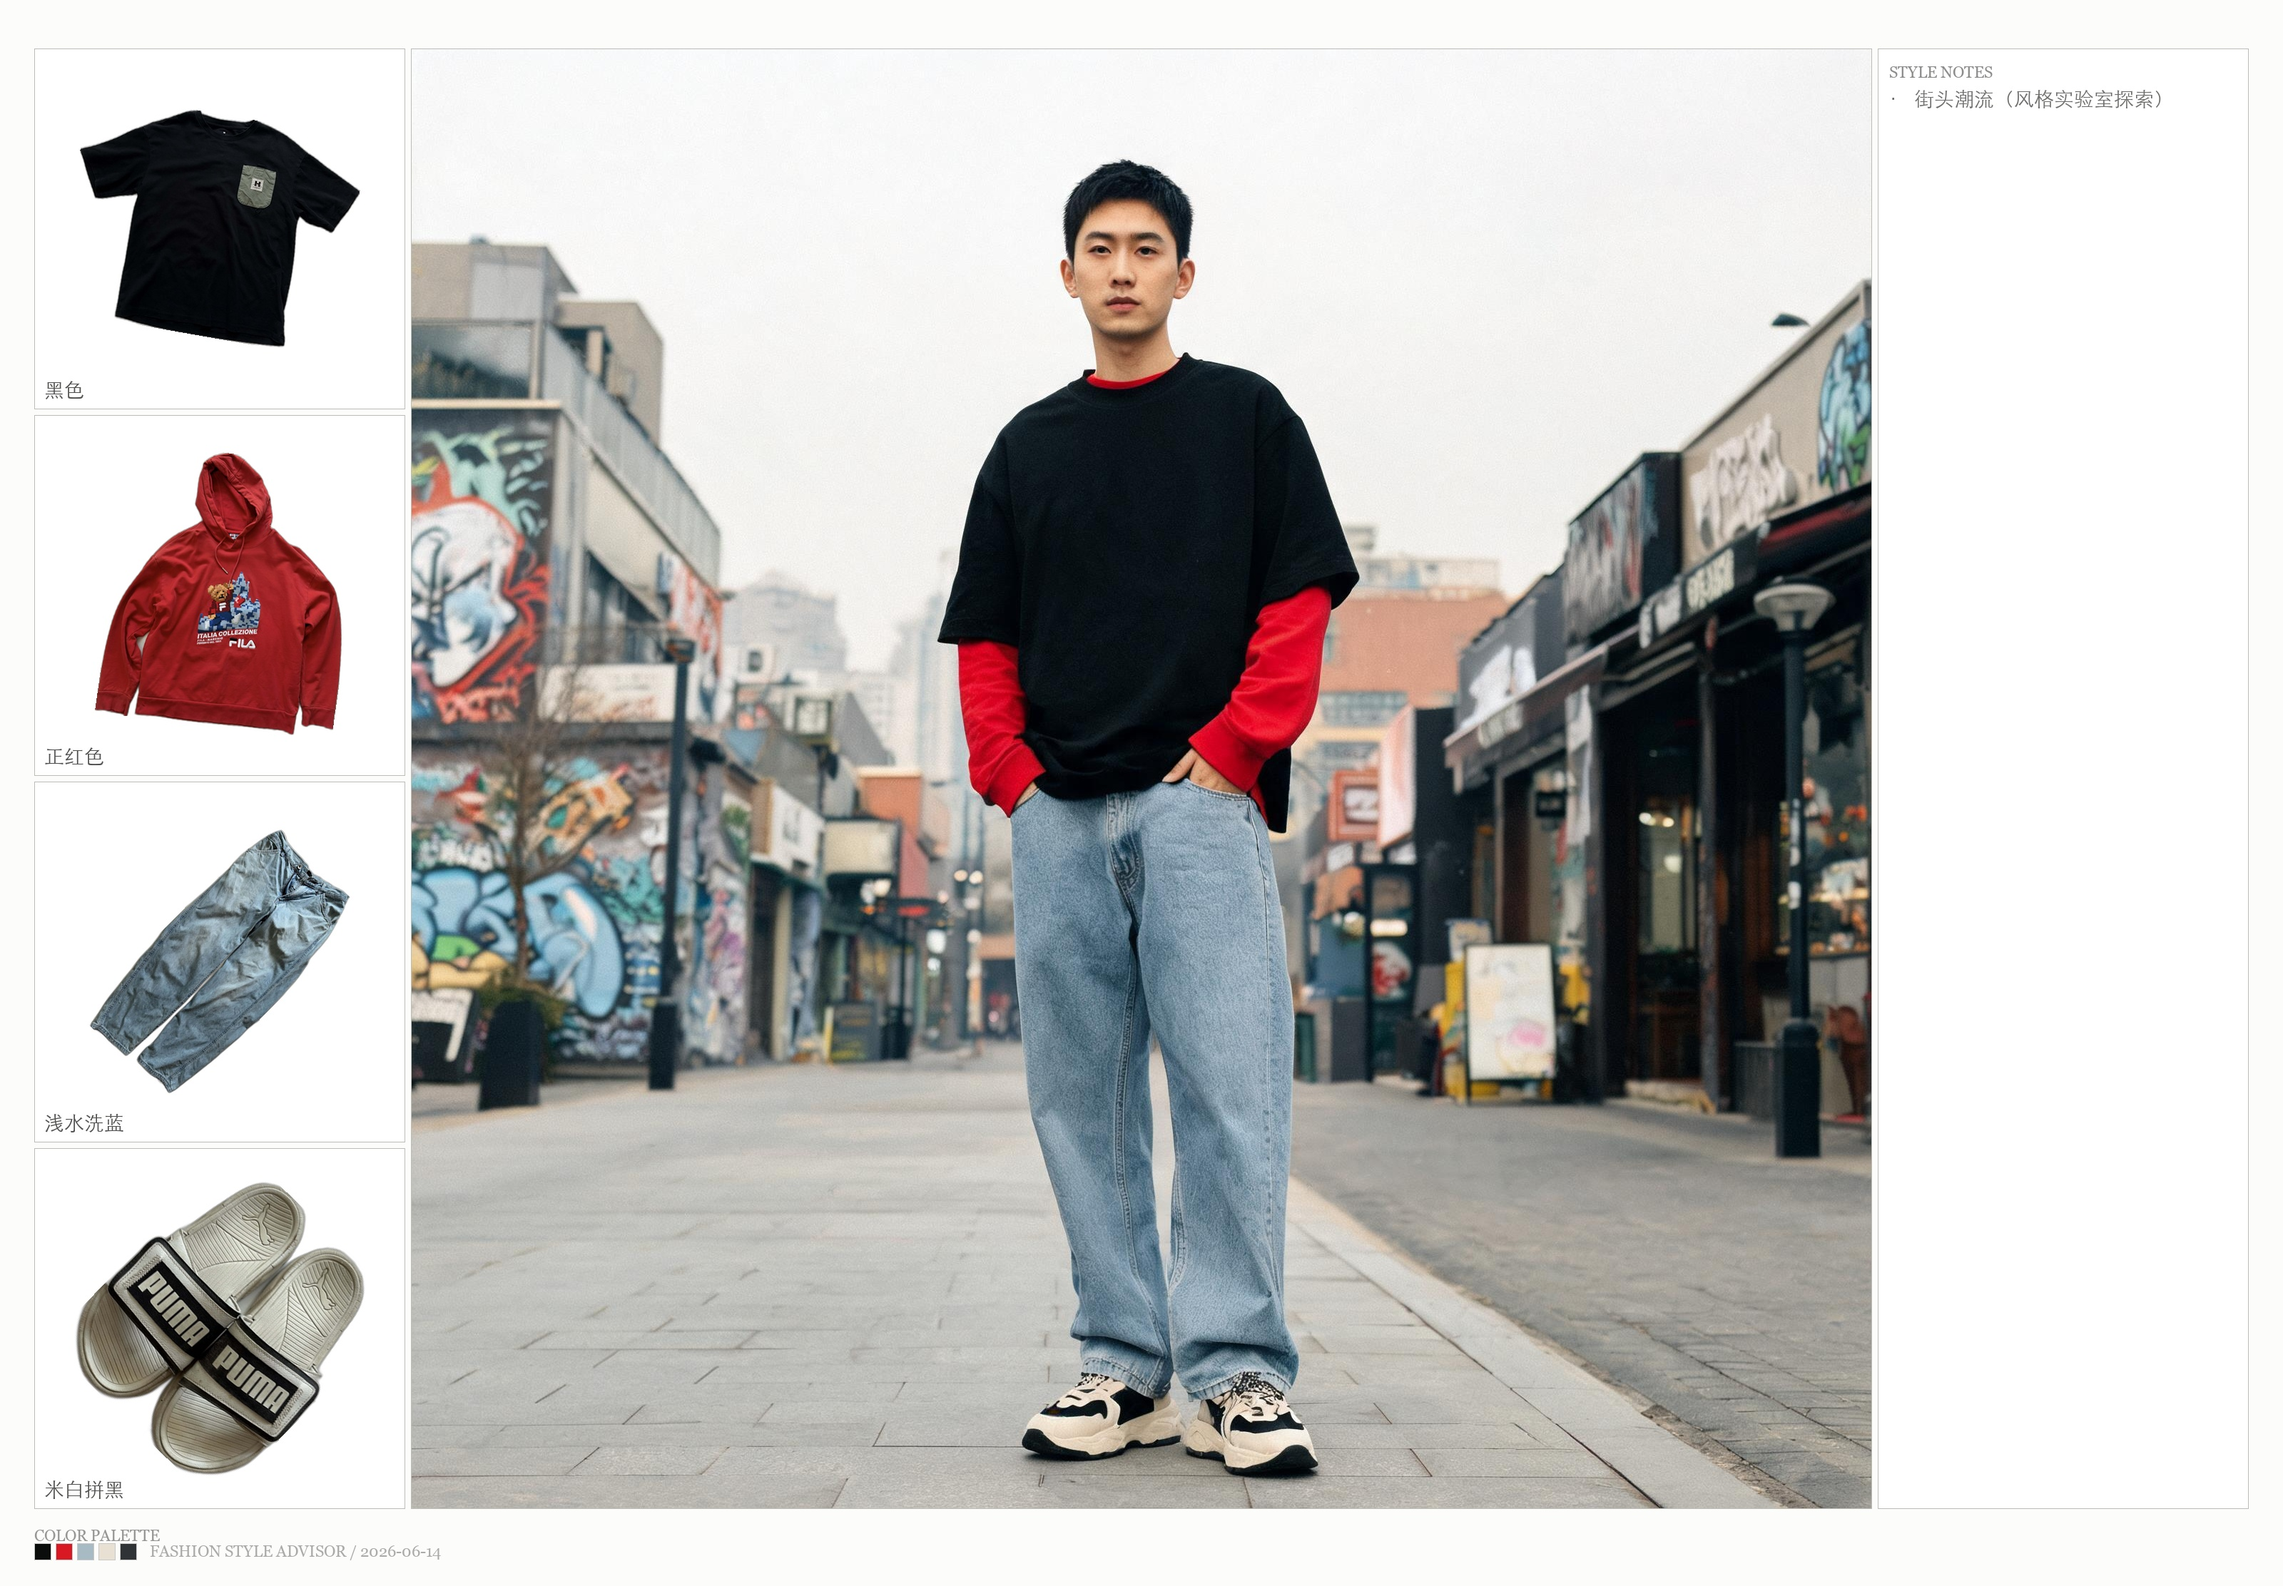
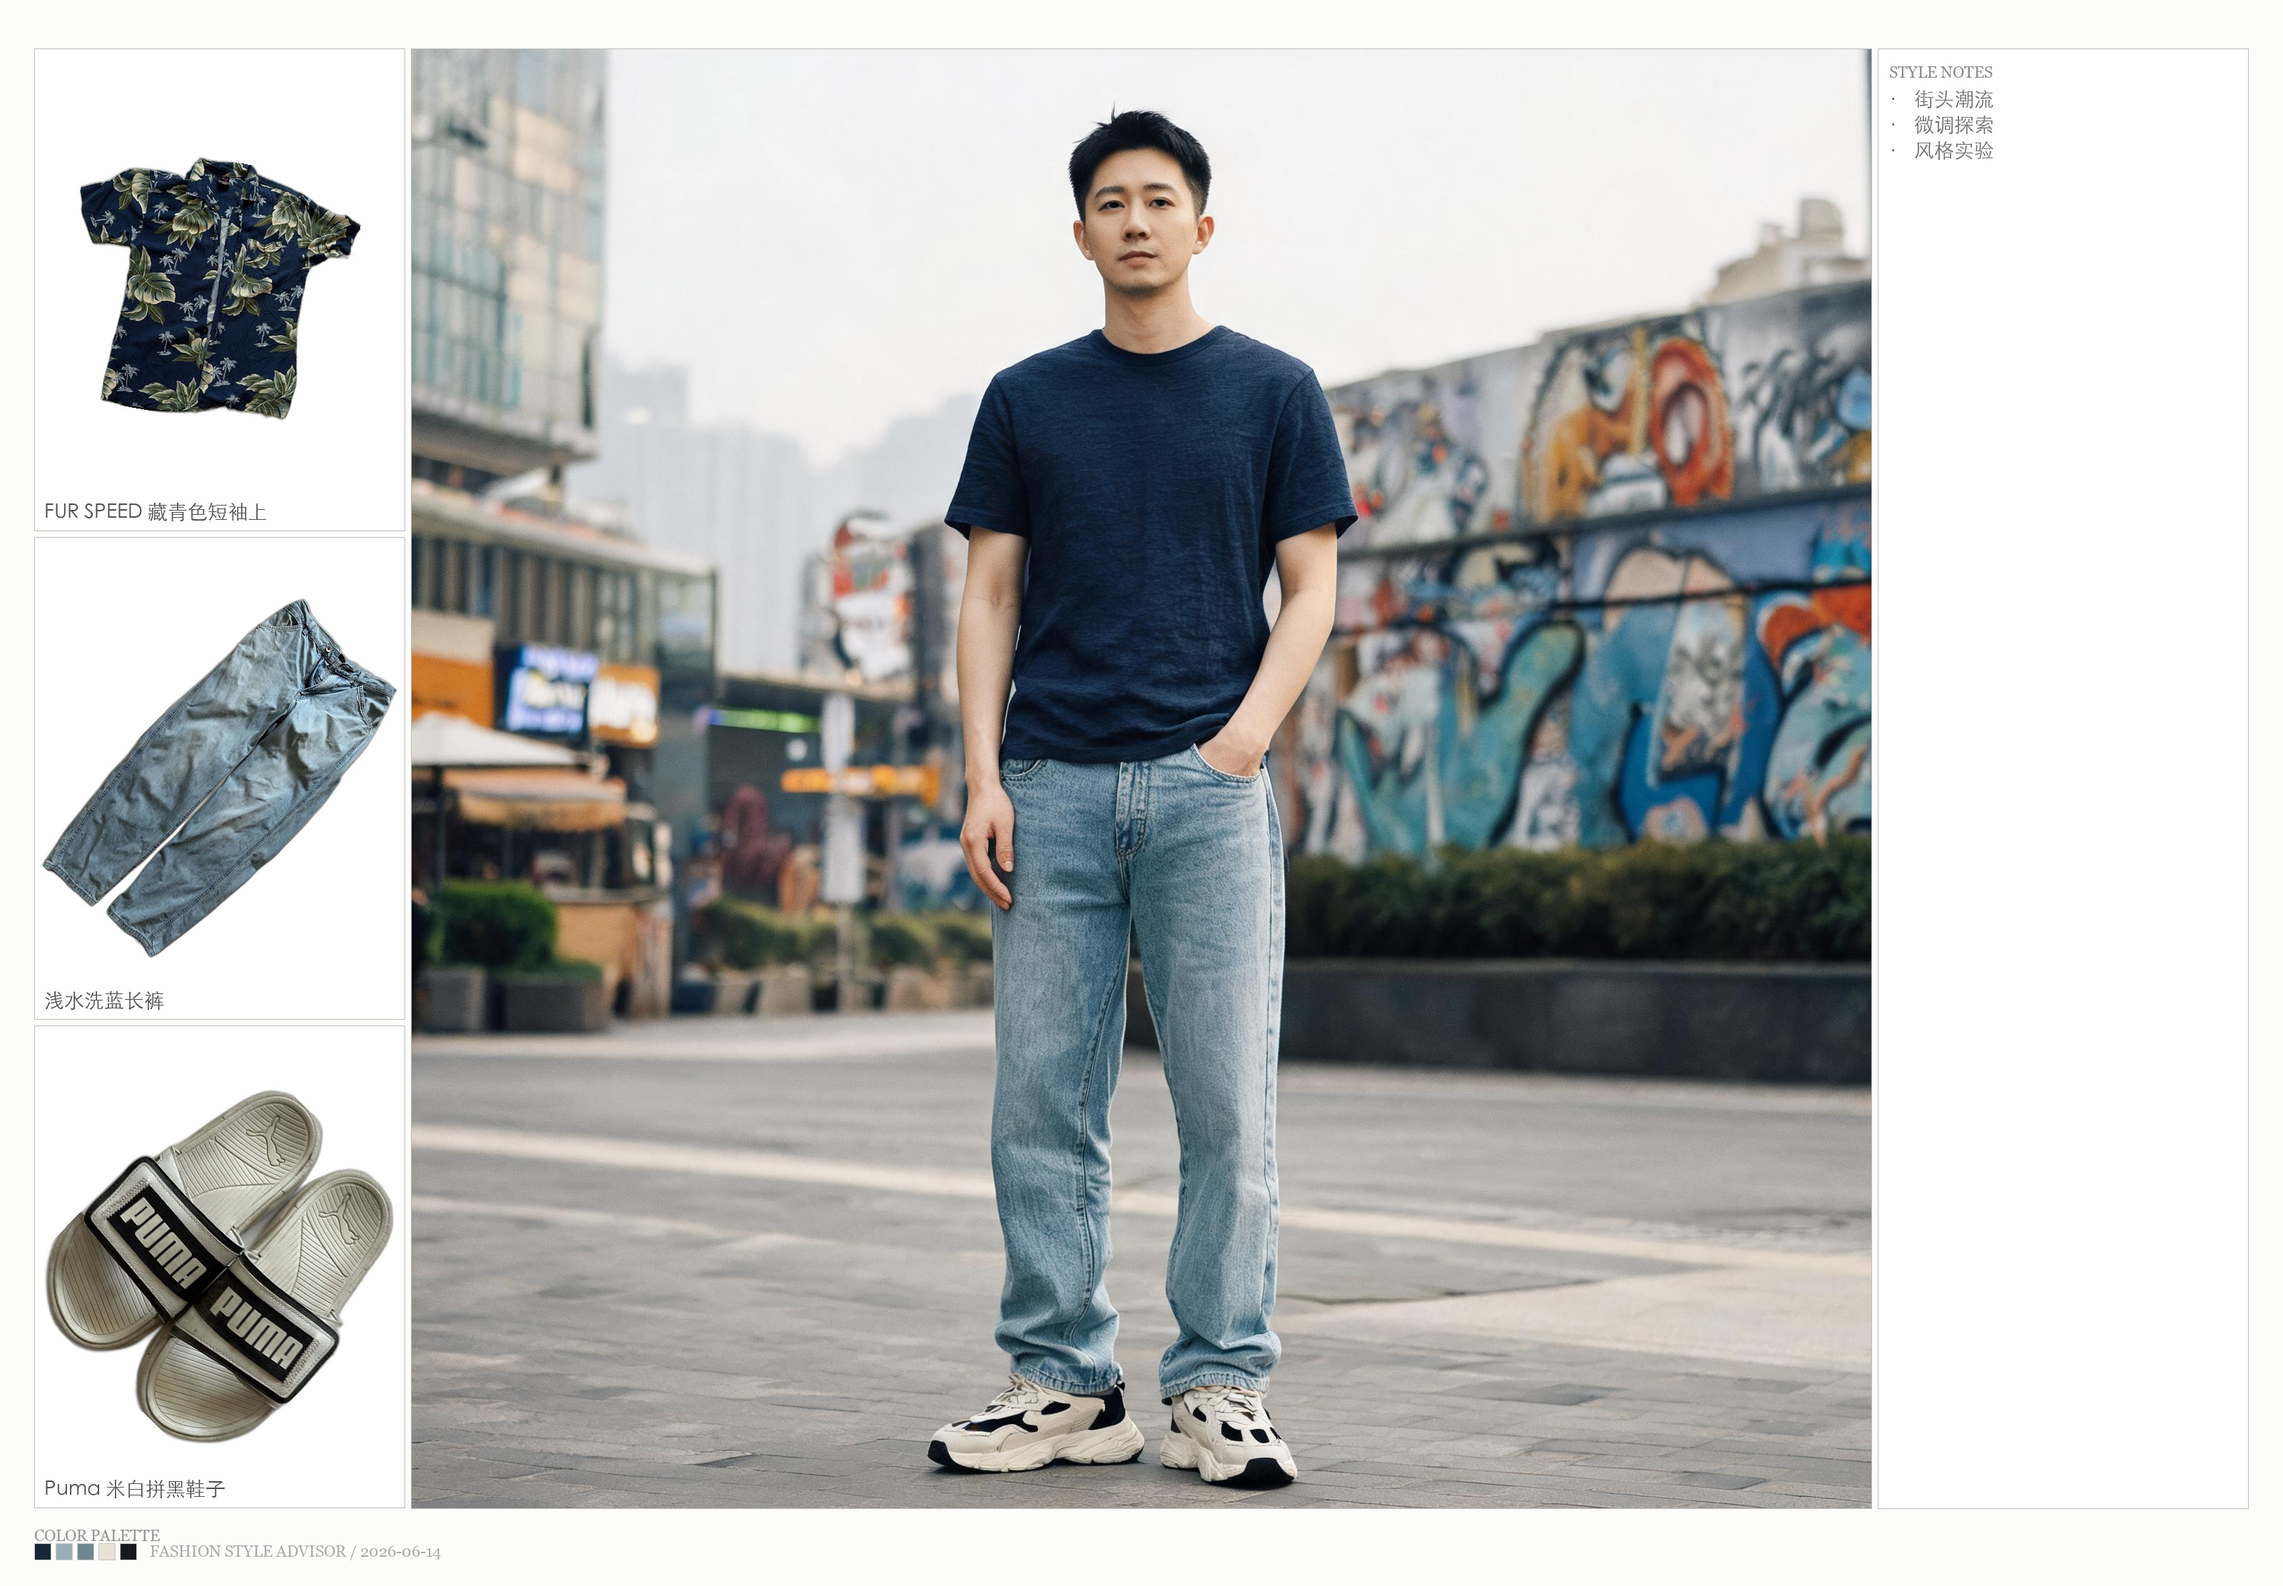
🧪 B线探索: 街头潮流 (2026-06-14)

diff --git a/tools/composite_v2.py b/tools/composite_v2.py
@@ -112,14 +112,44 @@ def parse_style_info(outfit_dir):
     if not os.path.exists(md): return []
     with open(md,encoding='utf-8') as f: text=f.read()
     keywords=[]
+
+    # 策略1：优先匹配 "## 风格关键词" 小节内容
+    in_kw_section = False
     for line in text.split('\n'):
-        if '风格关键词' in line or '风格' in line:
-            # 提取冒号后的内容
-            m=re.search(r'[：:]\s*(.+)',line)
+        if '风格关键词' in line:
+            in_kw_section = True
+            # 同行冒号后的内容
+            m = re.search(r'[：:]\s*(.+)', line)
             if m:
-                for kw in re.split(r'[、,，/]',m.group(1)):
-                    kw=kw.strip().replace('**','')
-                    if kw and len(kw)<15: keywords.append(kw)
+                for kw in re.split(r'[、,，/]', m.group(1)):
+                    kw = kw.strip().replace('**', '')
+                    if kw and len(kw) < 20:
+                        keywords.append(kw)
+            continue
+        if in_kw_section:
+            if line.strip().startswith('##') or line.strip().startswith('---'):
+                break
+            s = line.strip().lstrip('- ').strip()
+            if s:
+                for kw in re.split(r'[、,，/]', s):
+                    kw = kw.strip().replace('**', '')
+                    if kw and len(kw) < 20:
+                        keywords.append(kw)
+
+    # 策略2：回退——从 "风格" 元数据行提取（去括号）
+    if not keywords:
+        for line in text.split('\n'):
+            if '风格' in line and '风格关键词' not in line and '风格故事' not in line:
+                m = re.search(r'[：:]\s*(.+)', line)
+                if m:
+                    val = m.group(1)
+                    val = re.sub(r'[（(][^）)]*[）)]', '', val).strip()
+                    for kw in re.split(r'[、,，/]', val):
+                        kw = kw.strip().replace('**', '')
+                        if kw and len(kw) < 20:
+                            keywords.append(kw)
+                    break
+
     return keywords[:5]
 
 def composite(ai_path,items,output_path):

diff --git a/tools/style_lab.py b/tools/style_lab.py
@@ -1359,11 +1359,23 @@ def prepare_bline_outfit(anchor_item, companions, direction, weather_temp=30, we
         cid = item['clothing_id']
         cat = item.get('category', '')
         color = item.get('color', {}).get('hue_name', '')
+        brand = item.get('brand', {}).get('name', '')
+        if brand and brand != '未知':
+            item_name = f'{brand} {color}{cat}'
+        else:
+            item_name = f'{color}{cat}'
         # ⚠ ⭐ 不能放在 ID 列，否则 composite_v2 的 parse() 会把 ⭐ 读入 ID → 找不到文件
         marker = ' ⭐锚点' if cid == anchor_id else ''
         items_table_lines.append(
-            f"| {cat} | **{cid}** | {color} | {appeal['visual_signature'][:30]}{marker} |"
+            f"| {cat} | **{cid}** | {item_name} | {appeal['visual_signature'][:30]}{marker} |"
         )
+
+    # 风格关键词（composite_v2 parse_style_info 从 ## 风格关键词 小节读取）
+    style_tags = f'{style_name}'
+    if boldness == 'leap':
+        style_tags += ', 大胆跨界, 风格实验'
+    else:
+        style_tags += ', 微调探索, 风格实验'
 
     outfit_md = f"""# {style_name} B线探索穿搭
 
@@ -1373,7 +1385,7 @@ def prepare_bline_outfit(anchor_item, companions, direction, weather_temp=30, we
 - **探索模式**: {bold_tag} {'大胆跨界' if boldness == 'leap' else '微调探索'}
 
 ## 单品清单
-| 品类 | ID | 颜色 | 选品理由 |
+| 品类 | ID | 单品 | 选品理由 |
 |------|-----|------|----------|
 {chr(10).join(items_table_lines)}
 
@@ -1383,7 +1395,7 @@ def prepare_bline_outfit(anchor_item, companions, direction, weather_temp=30, we
 
 ## 风格关键词
 
-{style_name}, 风格实验室, 探索推荐
+{style_tags}
 """
     with open(os.path.join(outfit_dir, 'outfit.md'), 'w', encoding='utf-8') as f:
         f.write(outfit_md)

diff --git a/outfits/2026-06-14_街头潮流B线探索/outfit.md b/outfits/2026-06-14_街头潮流B线探索/outfit.md
@@ -6,31 +6,29 @@
 - **探索模式**: 🧪 微调探索
 
 ## 单品清单
-| 品类 | ID | 颜色 | 选品理由 |
+| 品类 | ID | 单品 | 选品理由 |
 |------|-----|------|----------|
-| 长袖上衣 | **LS-001** | 正红色 | 正红色印花 ⭐锚点 |
-| 短袖上衣 | **TS-006** | 黑色 | 正红色印花 |
-| 长裤 | **PT-001** | 浅水洗蓝 | 正红色印花 |
-| 鞋子 | **SHOE-010** | 米白拼黑 | 正红色印花 |
+| 短袖上衣 | **TS-008** | FUR SPEED 藏青色短袖上衣 | 藏青色印花 ⭐锚点 |
+| 长裤 | **PT-001** | 浅水洗蓝长裤 | 藏青色印花 |
+| 鞋子 | **SHOE-010** | Puma 米白拼黑鞋子 | 藏青色印花 |
 
 ## 探索叙事
 
-🔍 **探索基点**：LS-001 FILA
-   正红色 | 棉 | 正红色印花
-   发现它的价值：宽松连帽卫衣可大幅增加上半身体量感和肩宽,适合偏瘦体型,但大红色较为鲜艳吸睛
+🔍 **探索基点**：TS-008 FUR SPEED
+   藏青色 | 麻 | 藏青色印花
+   发现它的价值：深藏青底色配密集大叶印花可有效转移视线、遮盖小肚子,藏青色衬肤色
 
 🔭 **探索方向**：街头潮流（渐进探索）
-   从你喜欢的风格延伸而来，「正红色印花」作为桥梁单品带你探索街头潮流
+   从你喜欢的风格延伸而来，「藏青色印花」作为桥梁单品带你探索街头潮流
 
 🎯 **搭配逻辑**：
-   👕 **TS-006** 黑色 — 中性平衡（风格匹配 66分）
-   👖 **PT-001** 浅水洗蓝 — 中性平衡（风格匹配 45分）
+   👖 **PT-001** 浅水洗蓝 — 和谐呼应（风格匹配 45分）
    👟 **SHOE-010** 米白拼黑 — 中性平衡（风格匹配 28分）
 
 📖 **风格溯源**：Streetwear 的起源可追溯到两个地理中心——**南加州**和**纽约市**——各自孕育了该风格的不同基因。
 
-💬 **穿法建议**：锚点单品偏宽松，下装可选直筒/锥形保持上下平衡
+💬 **穿法建议**：锚点合身剪裁，可用宽松外套制造层次对比
 
 ## 风格关键词
 
-街头潮流, 风格实验室, 探索推荐
+街头潮流, 微调探索, 风格实验
